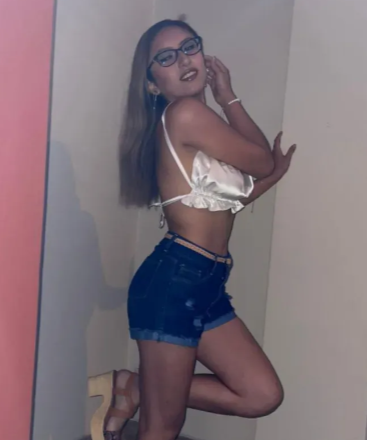
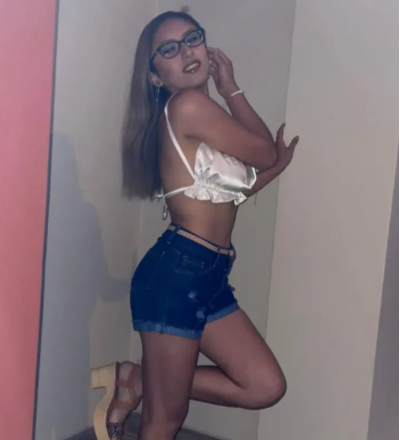
mejorav2

Changed region(s): [[0.1499, 0.0, 0.8093, 1.0], [0.8992, 0.0, 1.0, 1.0], [0.0899, 0.0, 0.1798, 0.8568]]

diff --git a/index.html b/index.html
@@ -223,7 +223,7 @@
             <div class="col-md-3 col-sm-6 ">
                 <div class="overlay-effect effects clearfix ">
                     <div class="img ">
-                        <a href="assets/img/portfolio/18.png" data-lightbox="roadtrip "><img class="grayscale " src="assets/img/portfolio/18_18.png" alt="Portfolio Item "></a>
+                        <a href="assets/img/portfolio/6.png" data-lightbox="roadtrip "><img class="grayscale " src="assets/img/portfolio/6_6.png" alt="Portfolio Item "></a>
                     </div>
                 </div>
             </div>
